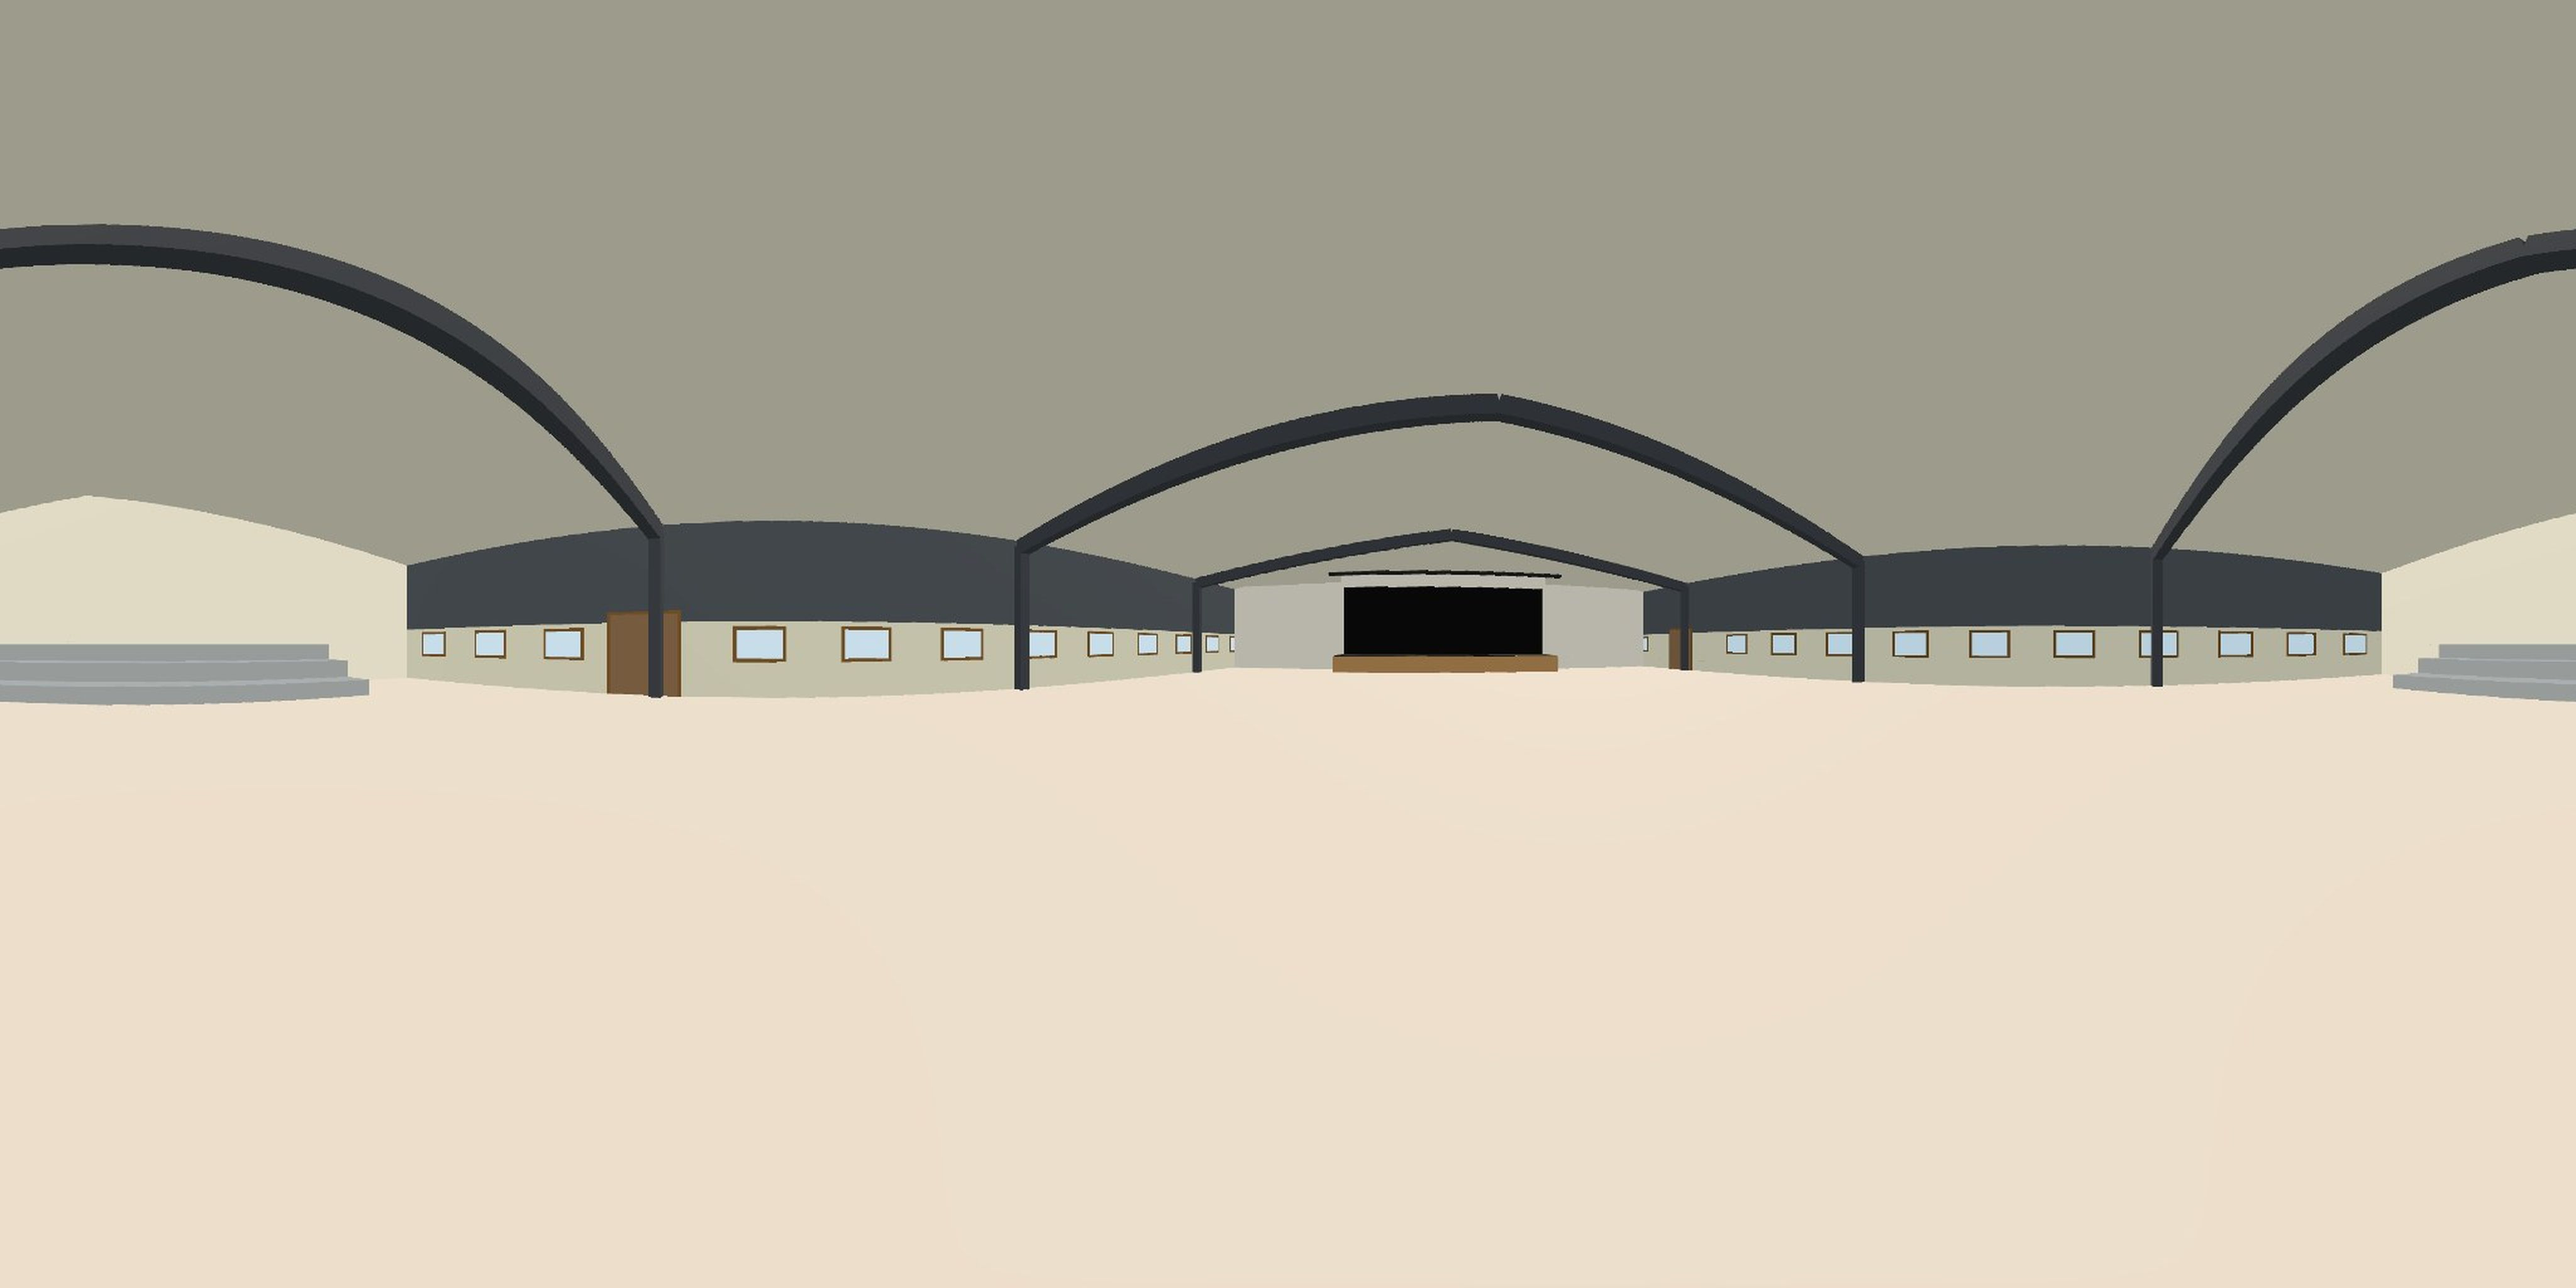
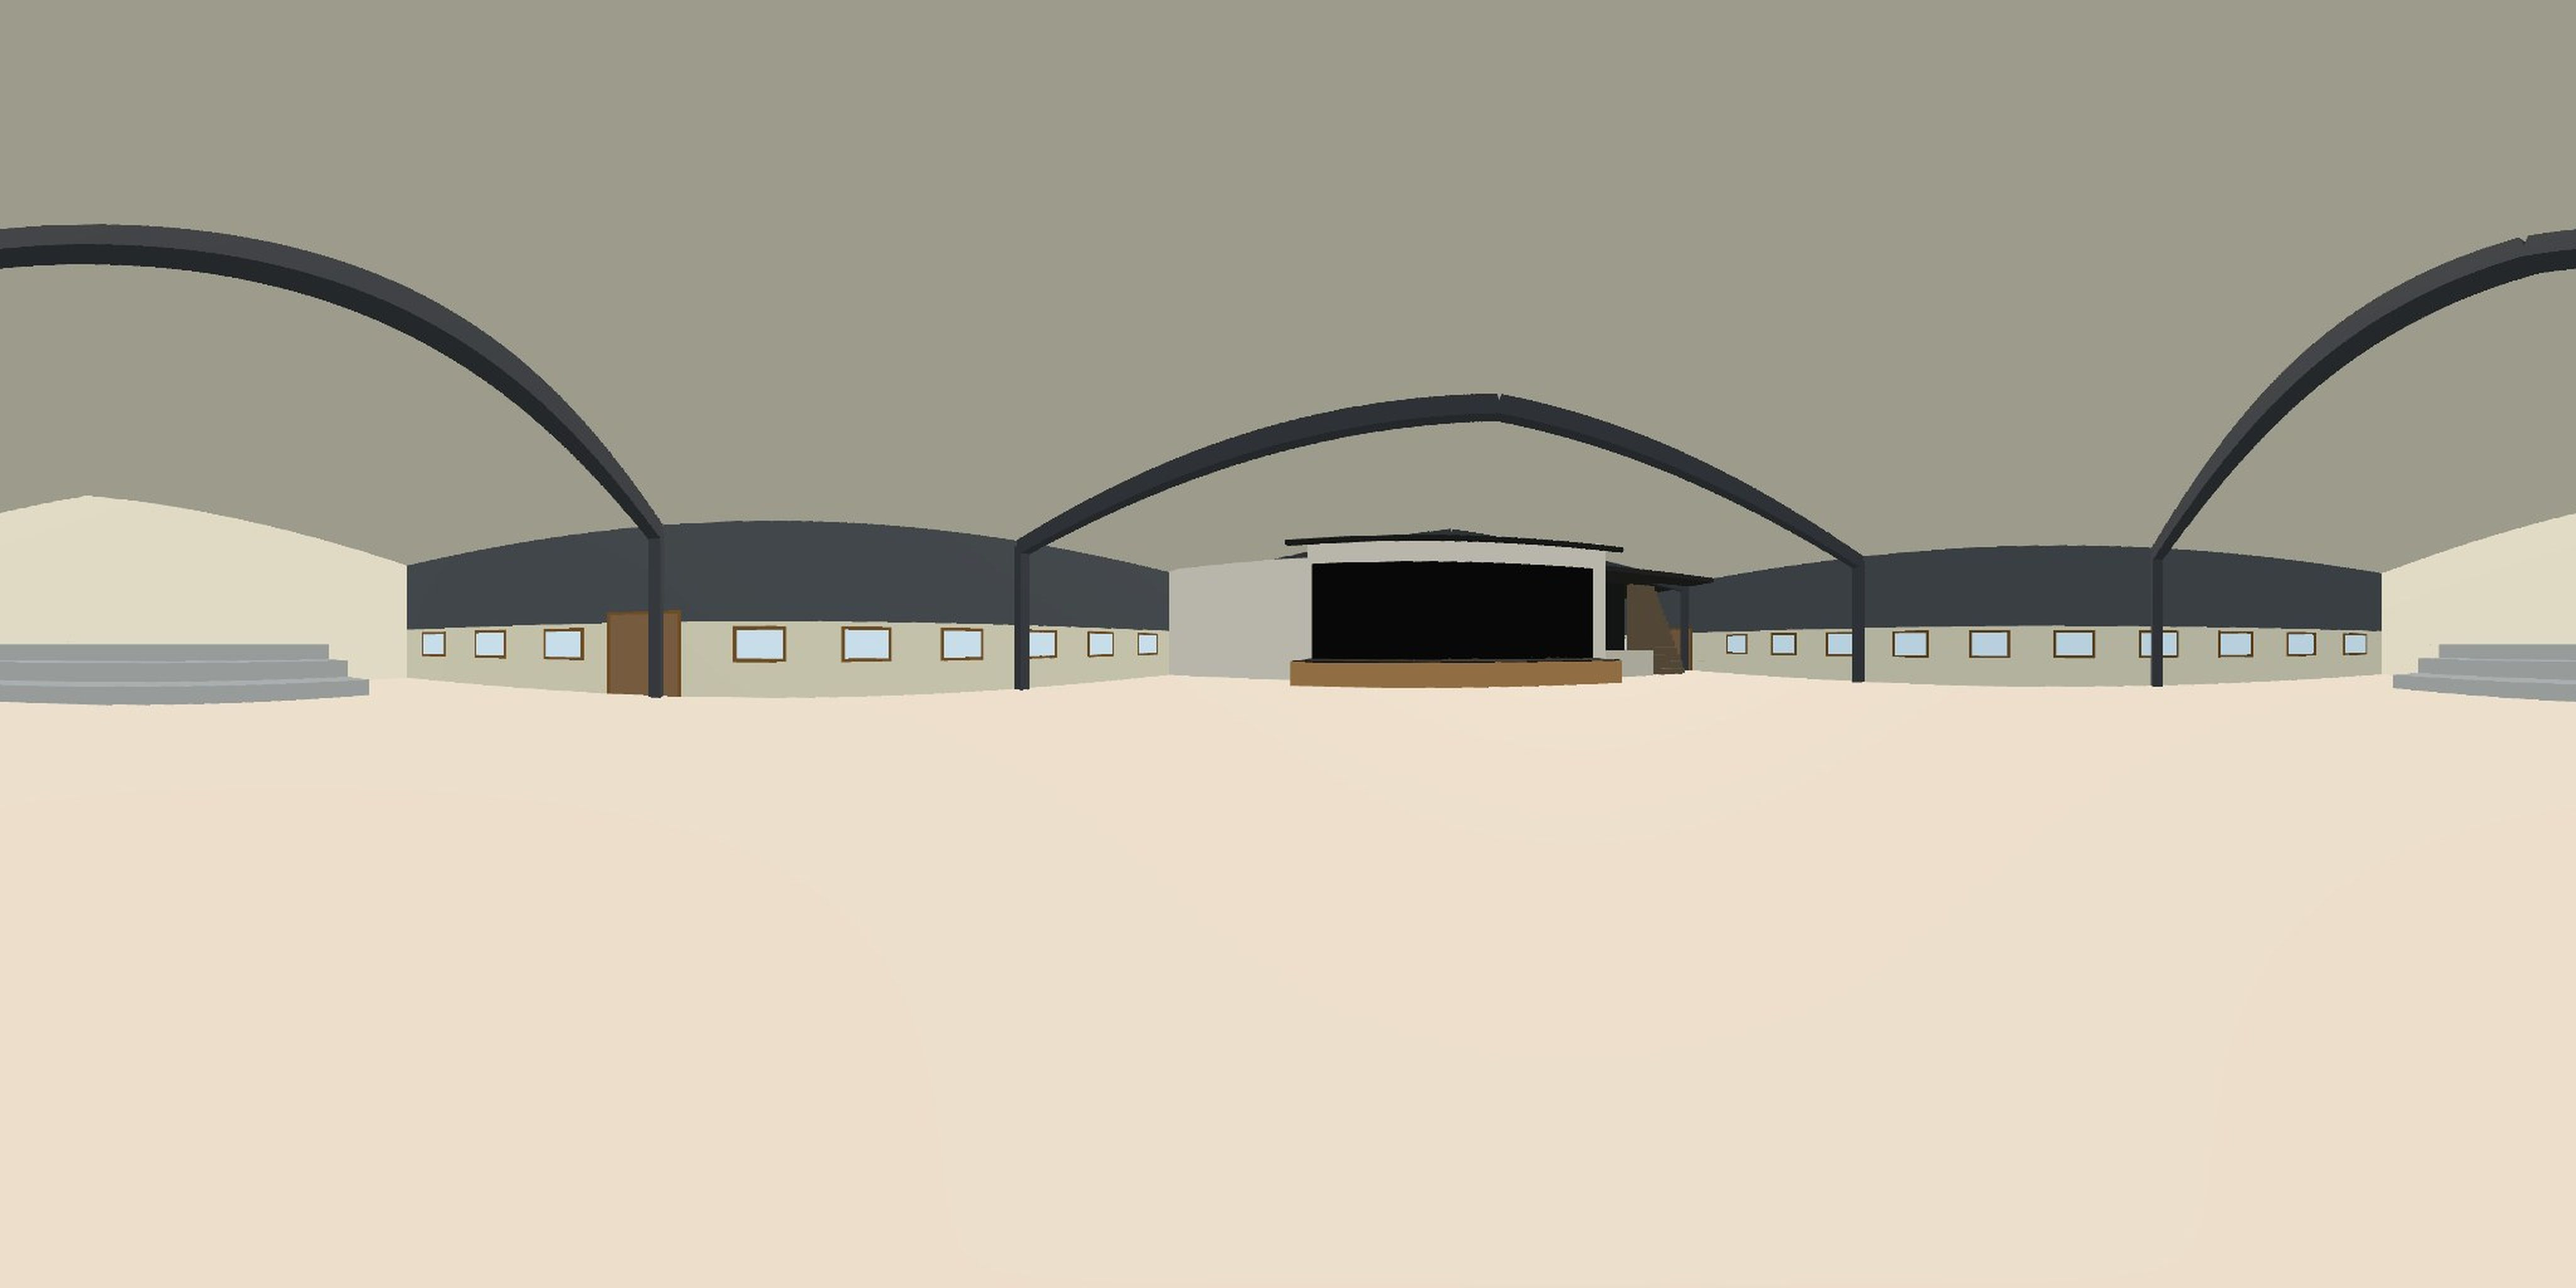
Rec Hall: 30 ft back area behind the stage, tech area + stairs, placeholder music rooms, draft floor plan page, Rock Band 360 from inside the band room
Claude-Session: https://claude.ai/code/session_01PMvFX7qvKDYsteaty9bAo9

Changed region(s): [[0.4375, 0.4062, 0.6562, 0.5625]]

diff --git a/model/campbuildings.js b/model/campbuildings.js
@@ -121,17 +121,41 @@ export const BUILDINGS = [
     ],
     // local +x = west for this building. Interior from the "26 Fencing" 360° panorama + Henry.
     interior: { floor: '#ddd2c2', wallLower: '#e3e0c8', wallUpper: '#4c5258', split: 1.9, wallEnd: '#ebe6d6', ceiling: '#efe9da', frames: { spacing: 9.5, color: '#3d4148' },
-      blocks: [ { x0: 11.6, x1: 16.6, z0: -5.2, z1: 5.2, y0: 0, y1: 0.8, color: '#b98b55' },          // stage (wood front, low)
-                { x0: 11.65, x1: 16.6, z0: -5.15, z1: 5.15, y0: 0.8, y1: 0.83, color: '#161616' },     // black stage deck
-                { x0: 13.7, x1: 19.0, z0: -11.1, z1: 11.1, y0: 4.2, y1: 4.4, color: '#2a2a2a' },     // black box theater floor (above stage + backstage)
-                { x0: 13.5, x1: 13.8, z0: -5.0, z1: 5.0, y0: 0.83, y1: 4.2, color: '#0d0d0d' },      // black curtain
+      /* Henry Nov 23: ~30 ft from the back of the stage to the back (west) wall. Right of the stage (seen from the hall) is a small light/sound tech area,
+         behind it (west) a stairway up to the black box theater; a stair down leads to the hallway to backstage and the music area (rock band room + a smaller
+         sound-booth room with a window). The black box and music-area layouts are NOT known: the music rooms here are placeholders. */
+      blocks: [ { x0: 5.3, x1: 10.3, z0: -5.2, z1: 5.2, y0: 0, y1: 0.8, color: '#b98b55' },          // stage (wood front, low)
+                { x0: 5.35, x1: 10.3, z0: -5.15, z1: 5.15, y0: 0.8, y1: 0.83, color: '#161616' },     // black stage deck
+                { x0: 7.4, x1: 19.0, z0: -11.1, z1: 11.1, y0: 4.2, y1: 4.4, color: '#2a2a2a' },      // black box theater floor (above stage + back area)
+                { x0: 7.2, x1: 7.5, z0: -5.0, z1: 5.0, y0: 0.83, y1: 4.2, color: '#0d0d0d' },       // black curtain
                 { x0: -18.6, x1: -15.4, z0: -7, z1: 7, y0: 0, y1: 0.45, color: '#9ea3a6' },          // bleachers (3 rows)
                 { x0: -18.6, x1: -16.5, z0: -7, z1: 7, y0: 0.45, y1: 0.9, color: '#9ea3a6' },
                 { x0: -18.6, x1: -17.6, z0: -7, z1: 7, y0: 0.9, y1: 1.35, color: '#9ea3a6' },
-                { x0: 12.0, x1: 12.2, z0: -5.5, z1: 5.5, y0: 4.6, y1: 4.75, color: '#222222' } ],    // lighting truss
-      walls: [ { x0: 13.7, z0: -11.1, x1: 13.7, z1: -5.2, color: '#ebe6d6' }, { x0: 13.7, z0: 5.2, x1: 13.7, z1: 11.1, color: '#ebe6d6' },   // proscenium wall
-               { x0: 13.7, z0: -5.2, x1: 13.7, z1: 5.2, h: 5.0, color: '#ebe6d6' },
-               { x0: 16.6, z0: -11.1, x1: 16.6, z1: 11.1, h: 4.2, color: '#1c1c1c' } ] },   // backstage / music room wall
+                { x0: 5.7, x1: 5.9, z0: -5.5, z1: 5.5, y0: 4.6, y1: 4.75, color: '#222222' },       // lighting truss
+                { x0: 7.6, x1: 9.4, z0: 6.0, z1: 7.2, y0: 0, y1: 1.0, color: '#2e2e2e' },          // light/sound tech desk, right of the stage
+                { x0: 7.4, x1: 7.5, z0: 5.6, z1: 7.8, y0: 0, y1: 1.1, color: '#d8d2c2' },          // tech area low wall
+                { x0: 7.60, x1: 10.3, z0: 8.2, z1: 9.6, y0: 0.00, y1: 0.30, color: '#6b5a48' },
+                { x0: 7.79, x1: 10.3, z0: 8.2, z1: 9.6, y0: 0.30, y1: 0.60, color: '#6b5a48' },
+                { x0: 7.98, x1: 10.3, z0: 8.2, z1: 9.6, y0: 0.60, y1: 0.90, color: '#6b5a48' },
+                { x0: 8.17, x1: 10.3, z0: 8.2, z1: 9.6, y0: 0.90, y1: 1.20, color: '#6b5a48' },
+                { x0: 8.36, x1: 10.3, z0: 8.2, z1: 9.6, y0: 1.20, y1: 1.50, color: '#6b5a48' },
+                { x0: 8.55, x1: 10.3, z0: 8.2, z1: 9.6, y0: 1.50, y1: 1.80, color: '#6b5a48' },
+                { x0: 8.74, x1: 10.3, z0: 8.2, z1: 9.6, y0: 1.80, y1: 2.10, color: '#6b5a48' },
+                { x0: 8.93, x1: 10.3, z0: 8.2, z1: 9.6, y0: 2.10, y1: 2.40, color: '#6b5a48' },
+                { x0: 9.12, x1: 10.3, z0: 8.2, z1: 9.6, y0: 2.40, y1: 2.70, color: '#6b5a48' },
+                { x0: 9.31, x1: 10.3, z0: 8.2, z1: 9.6, y0: 2.70, y1: 3.00, color: '#6b5a48' },
+                { x0: 9.50, x1: 10.3, z0: 8.2, z1: 9.6, y0: 3.00, y1: 3.30, color: '#6b5a48' },
+                { x0: 9.69, x1: 10.3, z0: 8.2, z1: 9.6, y0: 3.30, y1: 3.60, color: '#6b5a48' },
+                { x0: 9.88, x1: 10.3, z0: 8.2, z1: 9.6, y0: 3.60, y1: 3.90, color: '#6b5a48' },
+                { x0: 10.07, x1: 10.3, z0: 8.2, z1: 9.6, y0: 3.90, y1: 4.20, color: '#6b5a48' },
+                { x0: 13.0, x1: 19.2, z0: -3.0, z1: 3.0, y0: 0, y1: 0.03, color: '#b98a6a' },        // music room carpet (placeholder layout)
+                { x0: 13.0, x1: 19.2, z0: -3.0, z1: 3.0, y0: 2.7, y1: 2.76, color: '#a07a50' },      // acoustic ceiling
+                { x0: 13.06, x1: 13.12, z0: -0.7, z1: 0.7, y0: 1.2, y1: 2.0, color: '#d9c49a' } ],   // window into the sound booth
+      walls: [ { x0: 7.4, z0: -11.1, x1: 7.4, z1: -5.2, color: '#ebe6d6' }, { x0: 7.4, z0: 5.2, x1: 7.4, z1: 5.6, color: '#ebe6d6' },   // proscenium wall
+               { x0: 7.4, z0: -5.2, x1: 7.4, z1: 5.2, h: 5.0, color: '#ebe6d6' },
+               { x0: 10.3, z0: -11.1, x1: 10.3, z1: 8.0, h: 4.2, color: '#1c1c1c' },   // back of the stage
+               { x0: 13.0, z0: -3.0, x1: 13.0, z1: 3.0, h: 2.7, color: '#141414' }, { x0: 13.0, z0: -3.0, x1: 19.2, z1: -3.0, h: 2.7, color: '#141414' }, { x0: 13.0, z0: 3.0, x1: 19.2, z1: 3.0, h: 2.7, color: '#141414' },   // rock band room (black foam), placeholder
+               { x0: 10.3, z0: -2.0, x1: 13.0, z1: -2.0, h: 2.7, color: '#d8d2c2' }, { x0: 10.3, z0: 2.0, x1: 13.0, z1: 2.0, h: 2.7, color: '#d8d2c2' } ] },   // sound booth, placeholder
   },
   {
     id: 'art_center', name: 'Art Center + Pottery', lidar: 'b029',
